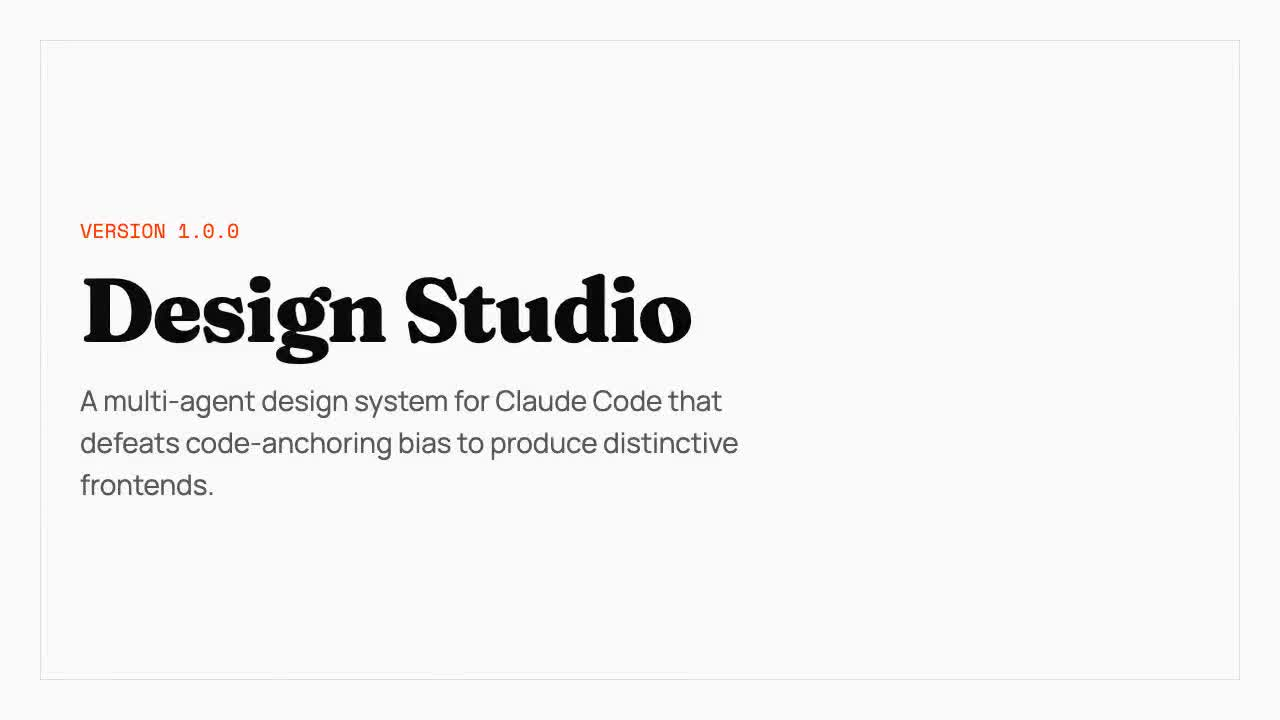
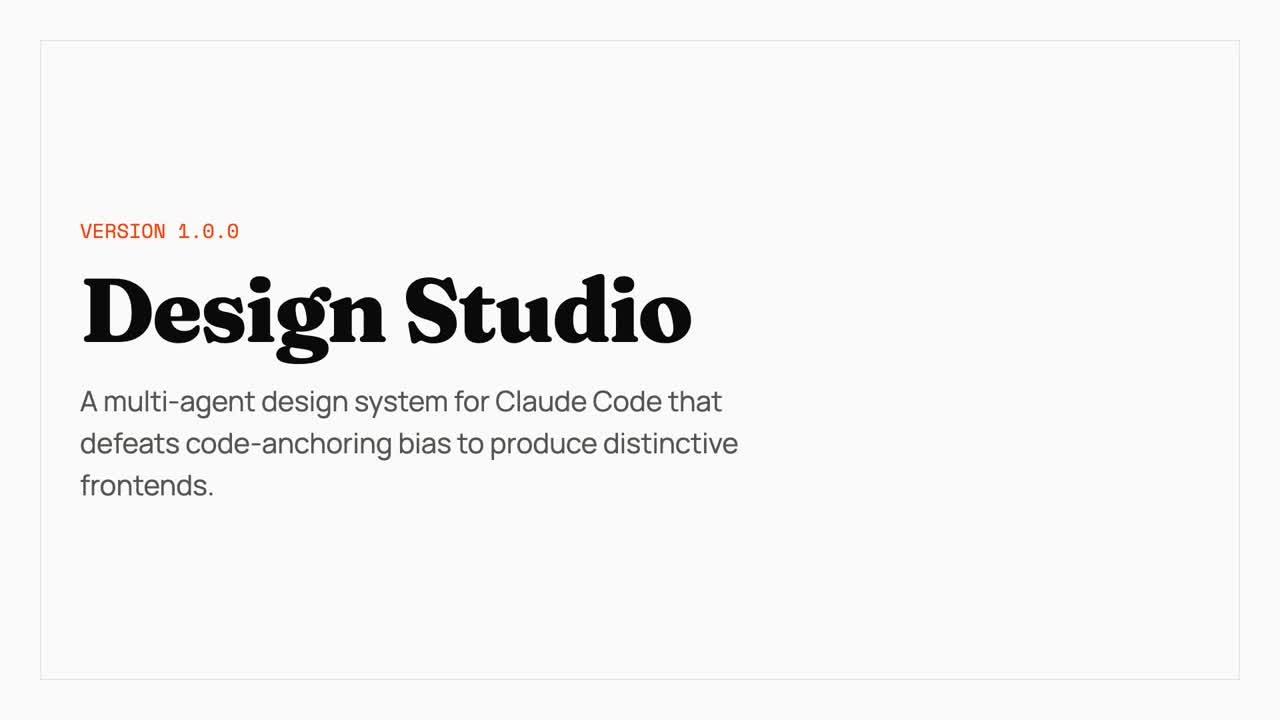
Upgrade overview video to 1080p/60fps; embed GIF in README
- Re-render the Design Studio overview at 1920x1080, 60fps (was 720p/30fps).
- Replace the README <video> block (GitHub strips <video> from READMEs) with
  an inline GIF so the overview actually plays on GitHub.
- Landing page now loads docs/video-1080p.mp4; drop the superseded video-720p.mp4.
- Regenerate docs/poster.jpg from the new render.

Timing and copy unchanged; only resolution and framerate improved.
Remotion source stays untracked per repo convention.

diff --git a/docs/index.html b/docs/index.html
@@ -782,7 +782,7 @@
         <h2 class="section-title section-reveal">Proof</h2>
         <div class="video-frame section-reveal">
           <video poster="poster.jpg" playsinline>
-            <source src="video-720p.mp4" type="video/mp4" />
+            <source src="video-1080p.mp4" type="video/mp4" />
           </video>
           <button class="video-play" aria-label="Play overview video">
             <svg viewBox="0 0 24 24" aria-hidden="true">

diff --git a/README.md b/README.md
@@ -7,11 +7,9 @@ A design harness that makes better-looking websites. It works great with Claude 
 [![Support on Ko-fi](https://img.shields.io/badge/Ko--fi-Support-ff5e5b?style=flat-square&logo=ko-fi&logoColor=white)](https://ko-fi.com/george_builds)
 
 <p align="center">
-  <video controls autoplay muted loop playsinline width="720">
-    <source src="https://george-rd.github.io/design-studio/video-720p.mp4" type="video/mp4" />
-  </video>
+  <img src="docs/video-1080p.gif" width="720" alt="Design Studio 23-second overview" />
   <br/>
-<em>23-second overview: how Design Studio defeats code-anchoring bias</em>
+  <em>23-second overview: how Design Studio defeats code-anchoring bias</em>
 </p>
 
 ## The Problem